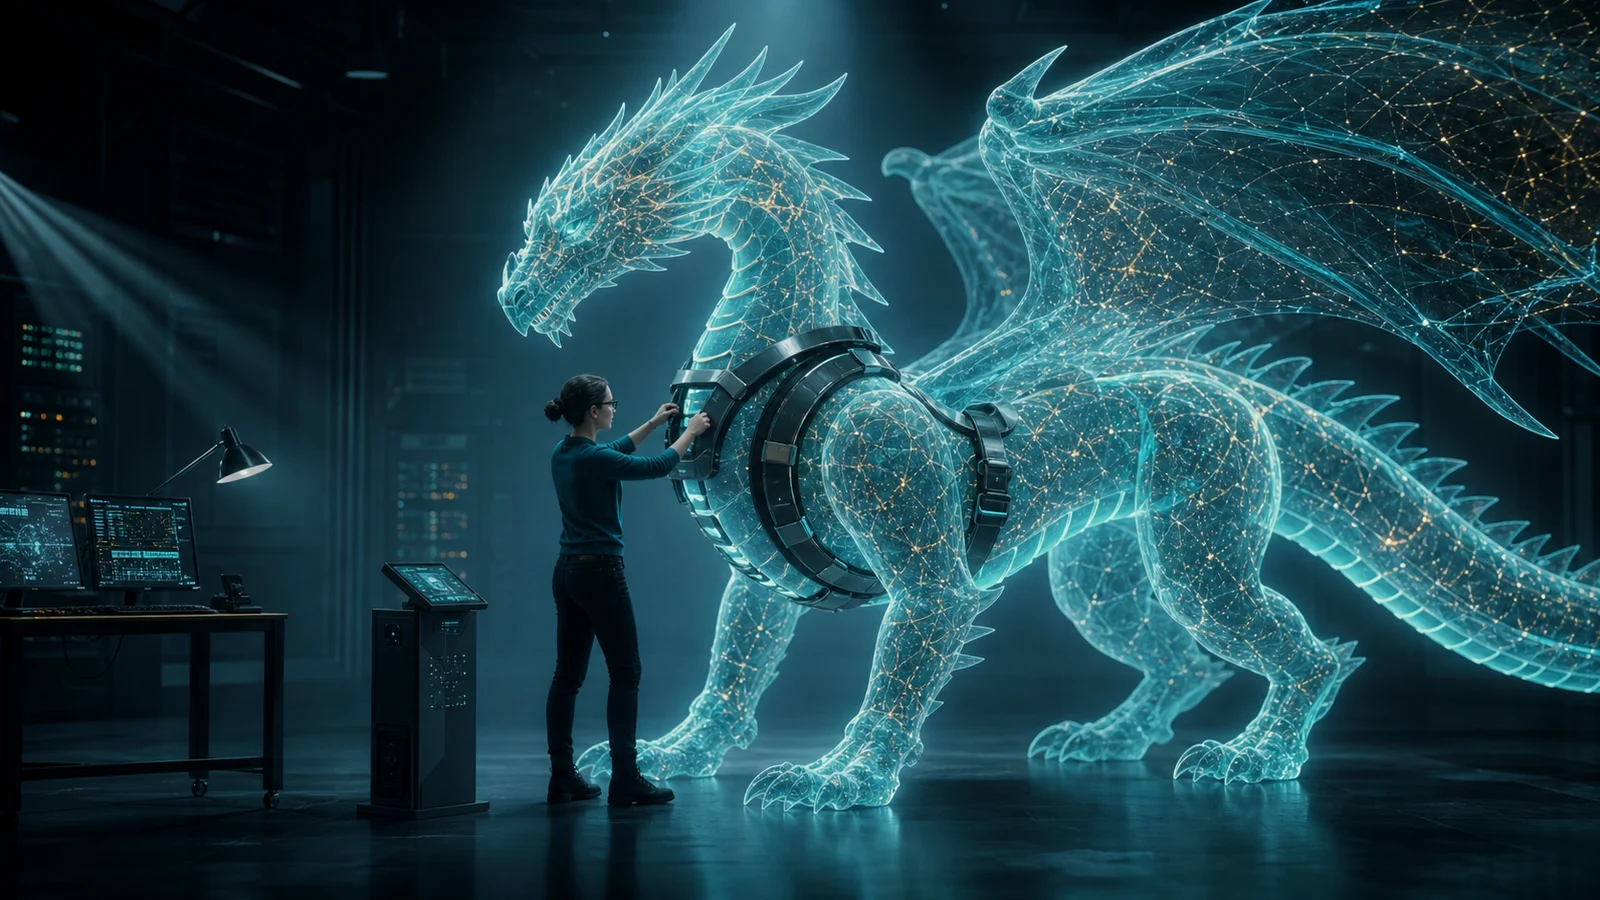
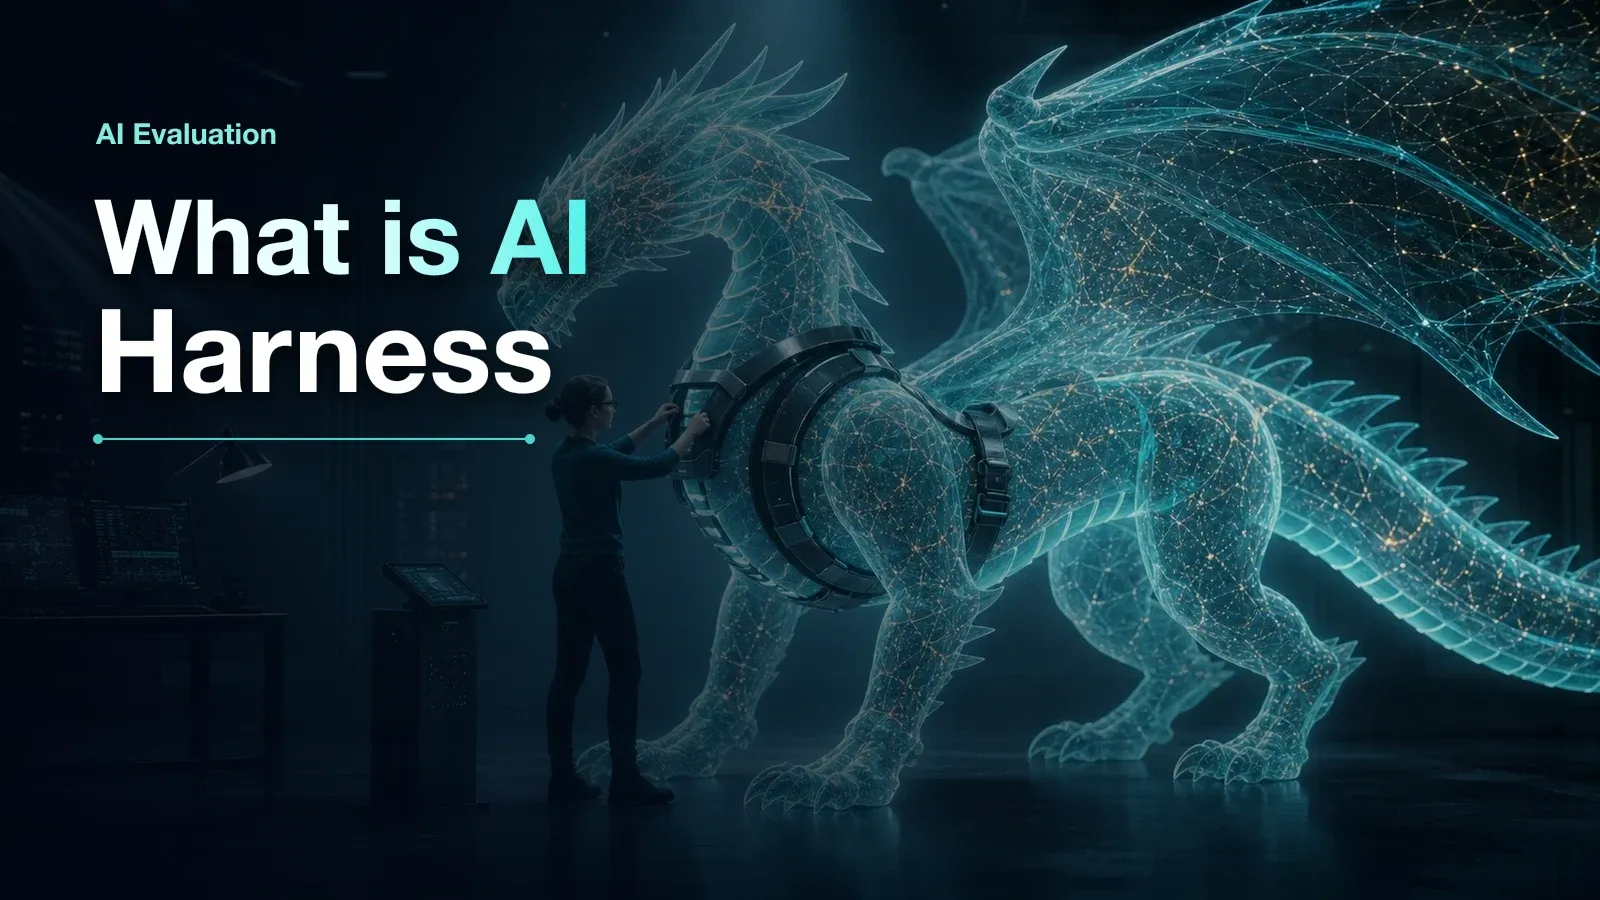
Add title text to AI harness cover

diff --git a/src/content/project/ai-evaluation-harness.md b/src/content/project/ai-evaluation-harness.md
@@ -4,7 +4,7 @@ description: "A beginner-friendly Python project that explains AI evaluation har
 publishDate: "2026-07-02"
 coverImage:
   src: "./img/ai-evaluation-harness-cover.webp"
-  alt: "A glowing digital AI creature being fitted with an evaluation harness in a dark lab"
+  alt: "What is AI Harness cover with a glowing digital AI creature being fitted with a testing harness"
 tags: ["ai", "python", "llm", "automation"]
 ---
 
